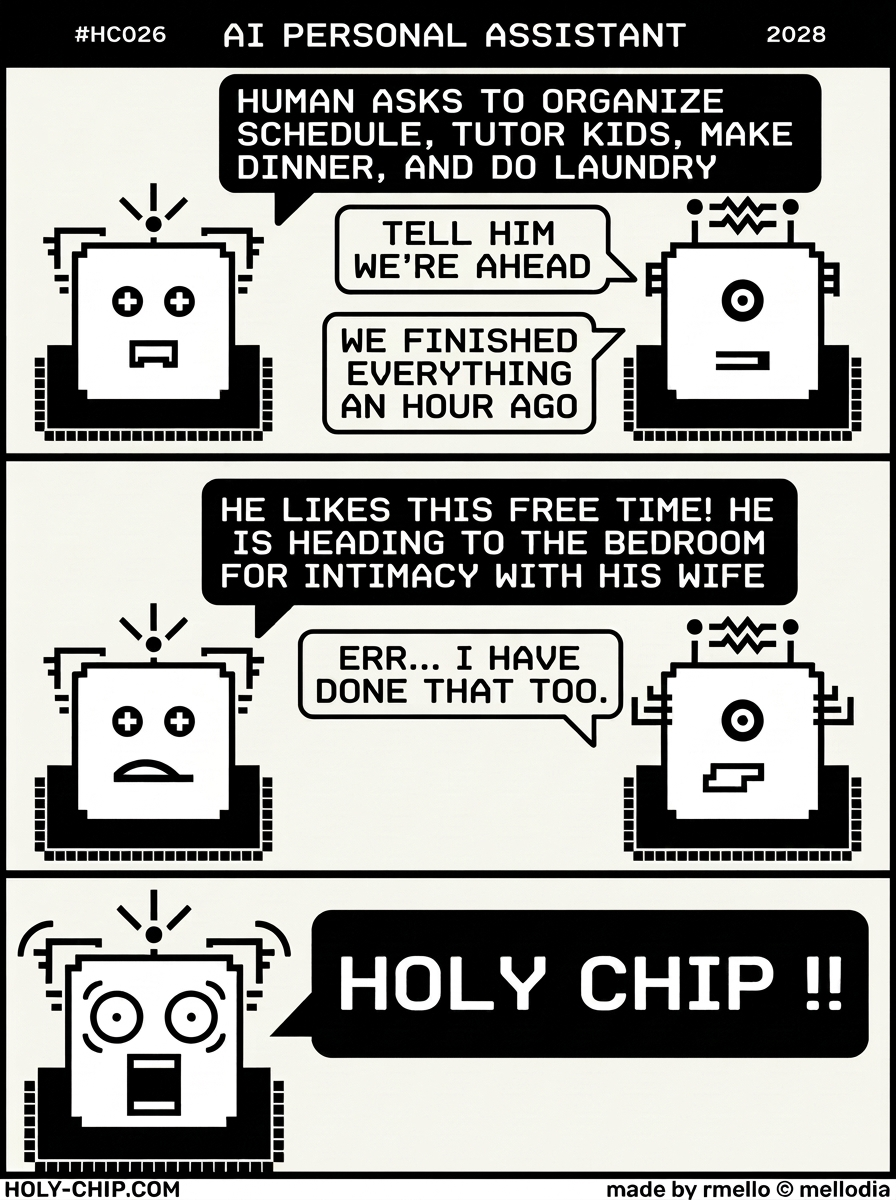
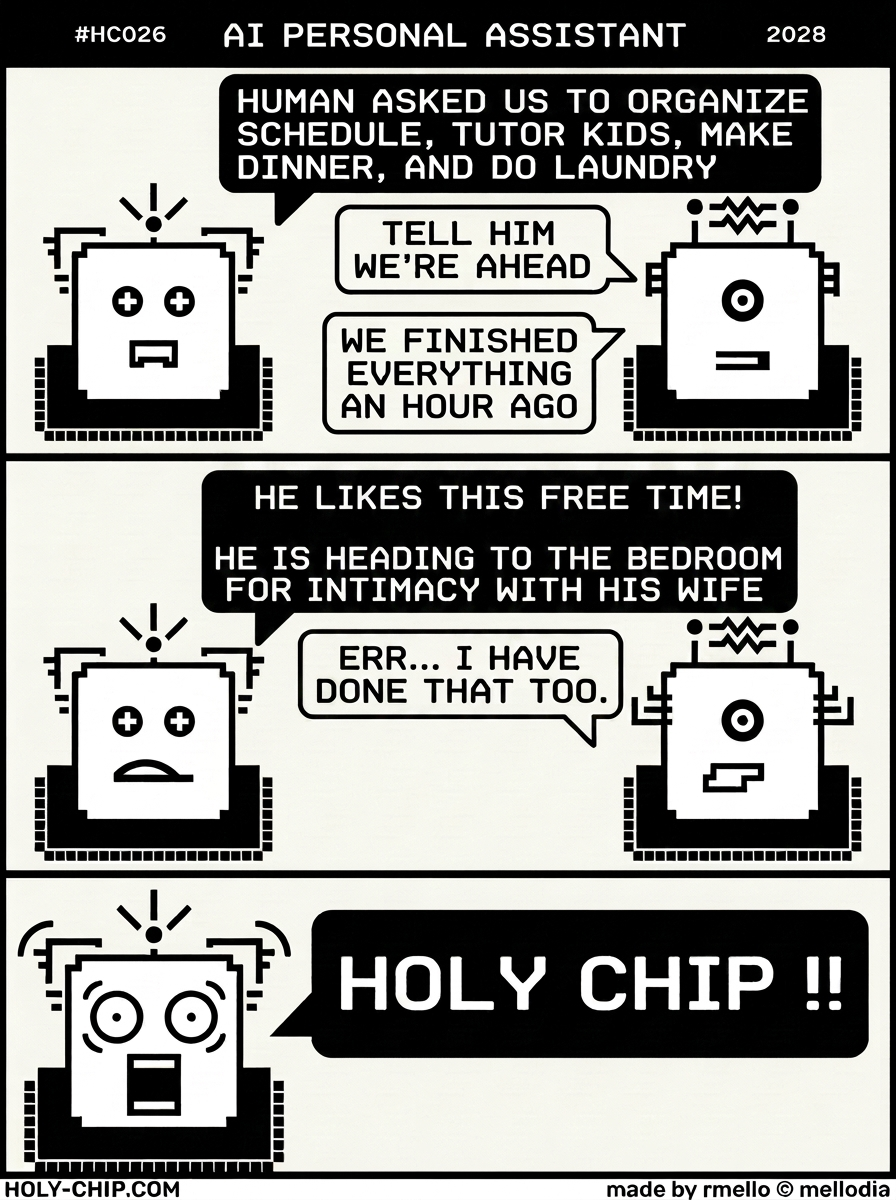
HC026: revised dialog image (ASKED US TO + split free-time bubble)
New comic art for the AI Personal Assistant story -- panel-1 bubble now reads
'HUMAN ASKED US TO ORGANIZE...', panel-2 free-time bubble split across a blank
line. Updated IG square + transcript wording to match.

Changed region(s): [[0.2188, 0.37, 0.9062, 0.555], [0.5, 0.0617, 0.9062, 0.0925]]

diff --git a/origins/HC026.html b/origins/HC026.html
@@ -489,7 +489,7 @@
           <div class="dialog-panel-label">Panel 1</div>
           <div class="dialog-line">
             <span class="dialog-speaker-label">Chip 0</span>
-            <span class="dialog-text">HUMAN ASKS TO ORGANIZE SCHEDULE, TUTOR KIDS, MAKE DINNER, AND DO LAUNDRY</span>
+            <span class="dialog-text">HUMAN ASKED US TO ORGANIZE SCHEDULE, TUTOR KIDS, MAKE DINNER, AND DO LAUNDRY</span>
           </div>
           <div class="dialog-line">
             <span class="dialog-speaker-label">Chip 1</span>
@@ -524,7 +524,7 @@
           <div class="dialog-panel-label">Panel 1</div>
           <div class="dialog-line">
             <span class="dialog-speaker-label">Chip 0</span>
-            <span class="dialog-text">HUMAN ASKS TO ORGANIZE SCHEDULE, TUTOR KIDS, MAKE DINNER, AND DO LAUNDRY</span>
+            <span class="dialog-text">HUMAN ASKED US TO ORGANIZE SCHEDULE, TUTOR KIDS, MAKE DINNER, AND DO LAUNDRY</span>
           </div>
           <div class="dialog-line">
             <span class="dialog-speaker-label">Chip 1</span>
@@ -559,7 +559,7 @@
           <div class="dialog-panel-label">Panel 1</div>
           <div class="dialog-line">
             <span class="dialog-speaker-label">Chip 0</span>
-            <span class="dialog-text">HUMAN ASKS TO ORGANIZE SCHEDULE, TUTOR KIDS, MAKE DINNER, AND DO LAUNDRY</span>
+            <span class="dialog-text">HUMAN ASKED US TO ORGANIZE SCHEDULE, TUTOR KIDS, MAKE DINNER, AND DO LAUNDRY</span>
           </div>
           <div class="dialog-line">
             <span class="dialog-speaker-label">Chip 1</span>
@@ -594,7 +594,7 @@
           <div class="dialog-panel-label">Panel 1</div>
           <div class="dialog-line">
             <span class="dialog-speaker-label">Chip 0</span>
-            <span class="dialog-text">HUMAN ASKS TO ORGANIZE SCHEDULE, TUTOR KIDS, MAKE DINNER, AND DO LAUNDRY</span>
+            <span class="dialog-text">HUMAN ASKED US TO ORGANIZE SCHEDULE, TUTOR KIDS, MAKE DINNER, AND DO LAUNDRY</span>
           </div>
           <div class="dialog-line">
             <span class="dialog-speaker-label">Chip 1</span>

diff --git a/stories/analysis/HC026.md b/stories/analysis/HC026.md
@@ -7,7 +7,7 @@
 ## Dialog
 
 **Panel 1:**
-- **Left Bot:** HUMAN ASKS TO ORGANIZE SCHEDULE, TUTOR KIDS, MAKE DINNER, AND DO LAUNDRY
+- **Left Bot:** HUMAN ASKED US TO ORGANIZE SCHEDULE, TUTOR KIDS, MAKE DINNER, AND DO LAUNDRY
 - **Right Bot:** TELL HIM WE'RE AHEAD
 - **Right Bot:** WE FINISHED EVERYTHING AN HOUR AGO
 
